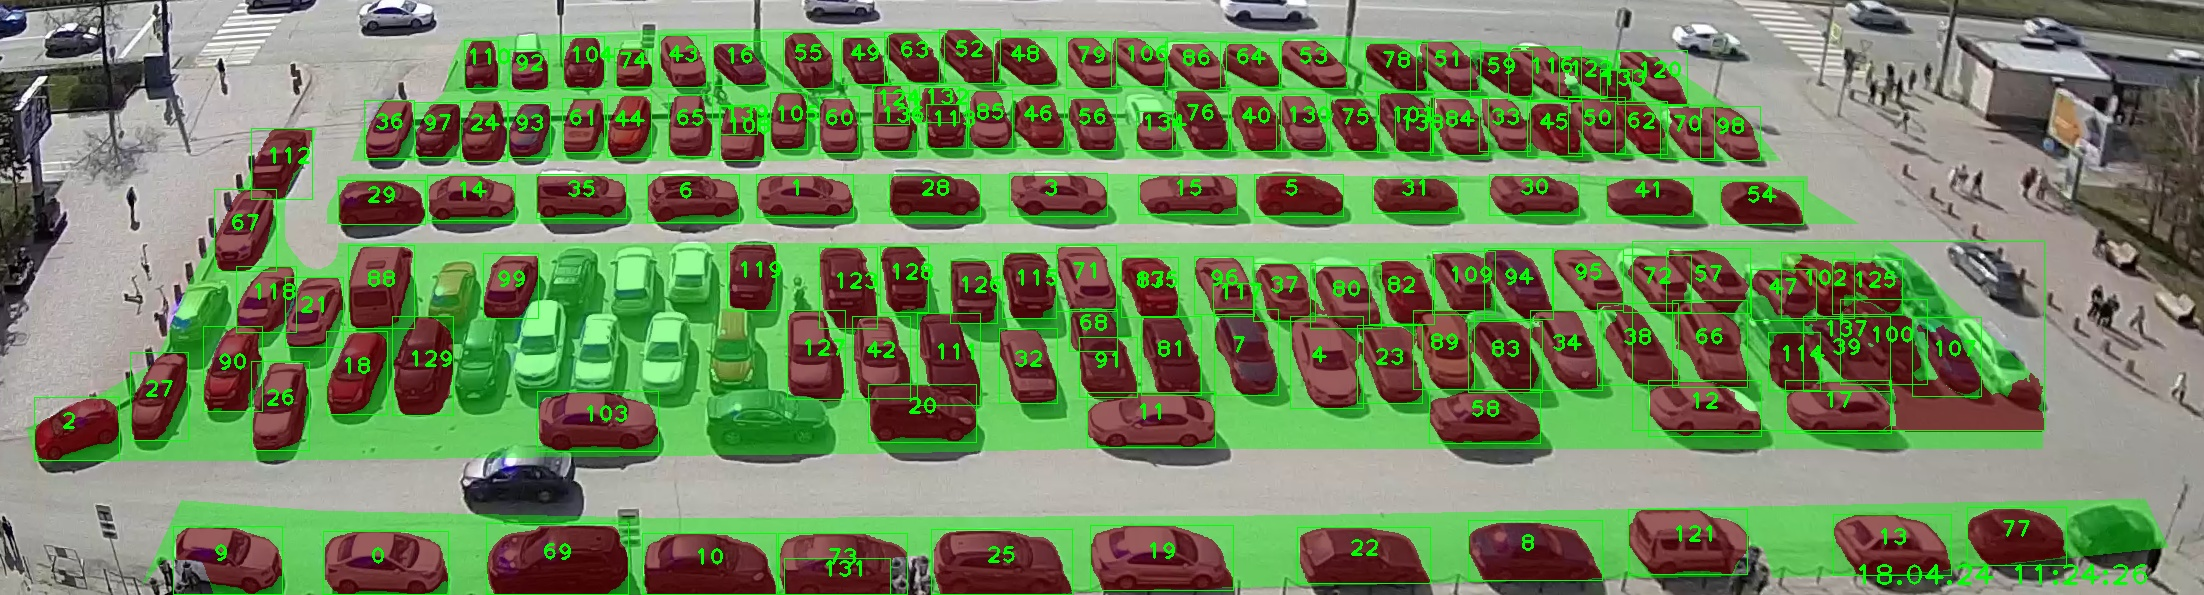
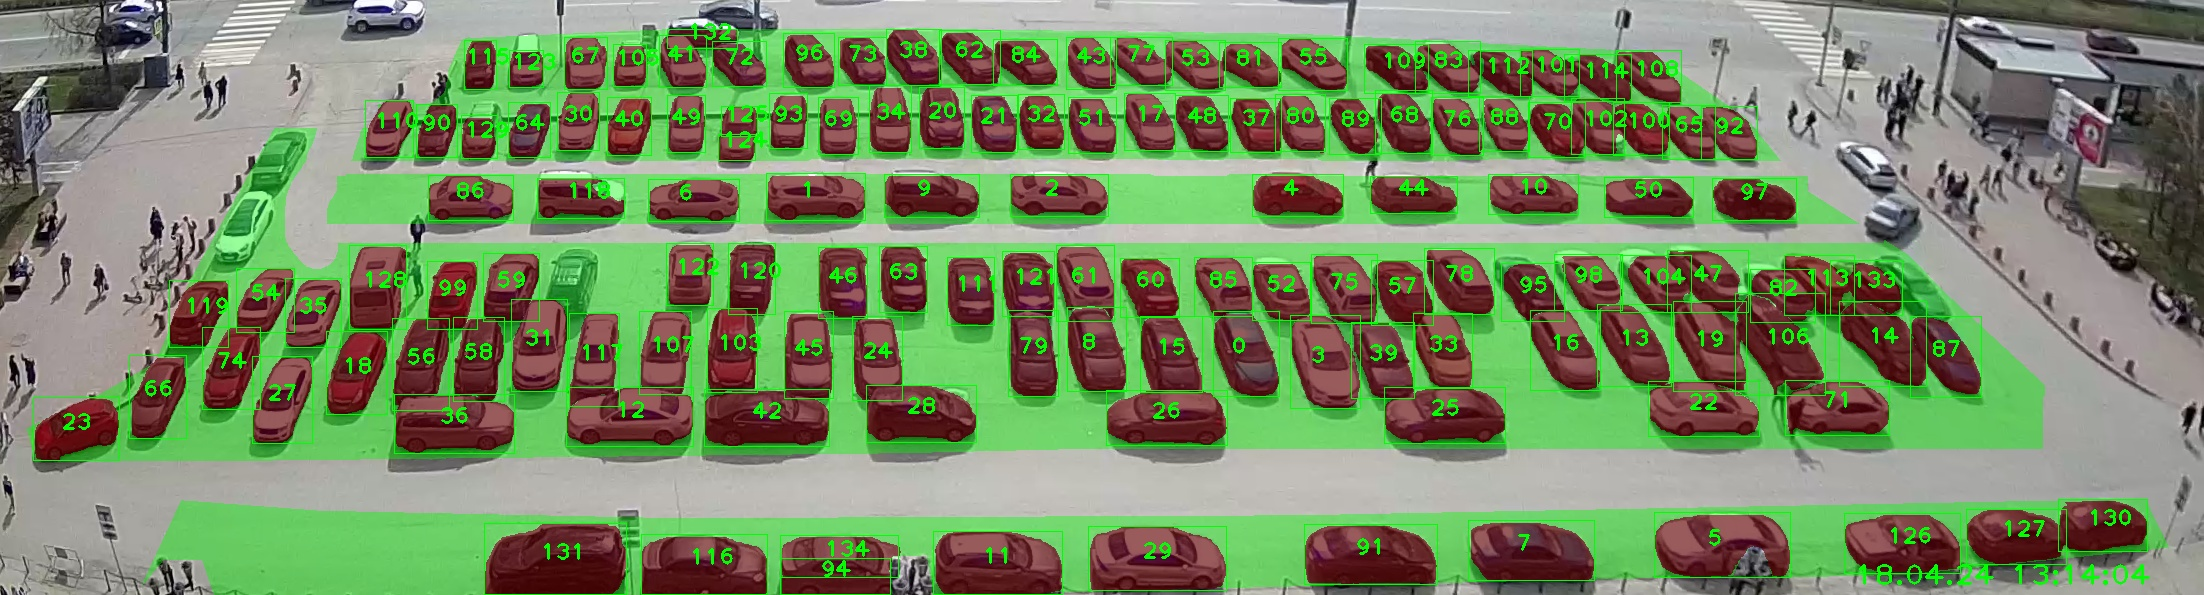
Add fix predictions bboxes

diff --git a/yolo_seg.py b/yolo_seg.py
@@ -48,7 +48,7 @@ while cap.isOpened():
             overlay = frame.copy()
 
             seg_results = seg_model.predict(cv2.bitwise_and(annotated_frame, mask), classes=classes, imgsz=3200,
-                                            iou=0.5, conf=0.2)
+                                            iou=0.3, conf=0.2)
 
             curr_time = strftime('%d.%m.%y %H:%M:%S', localtime())  # current local time
             # Visualize the results on the frame
